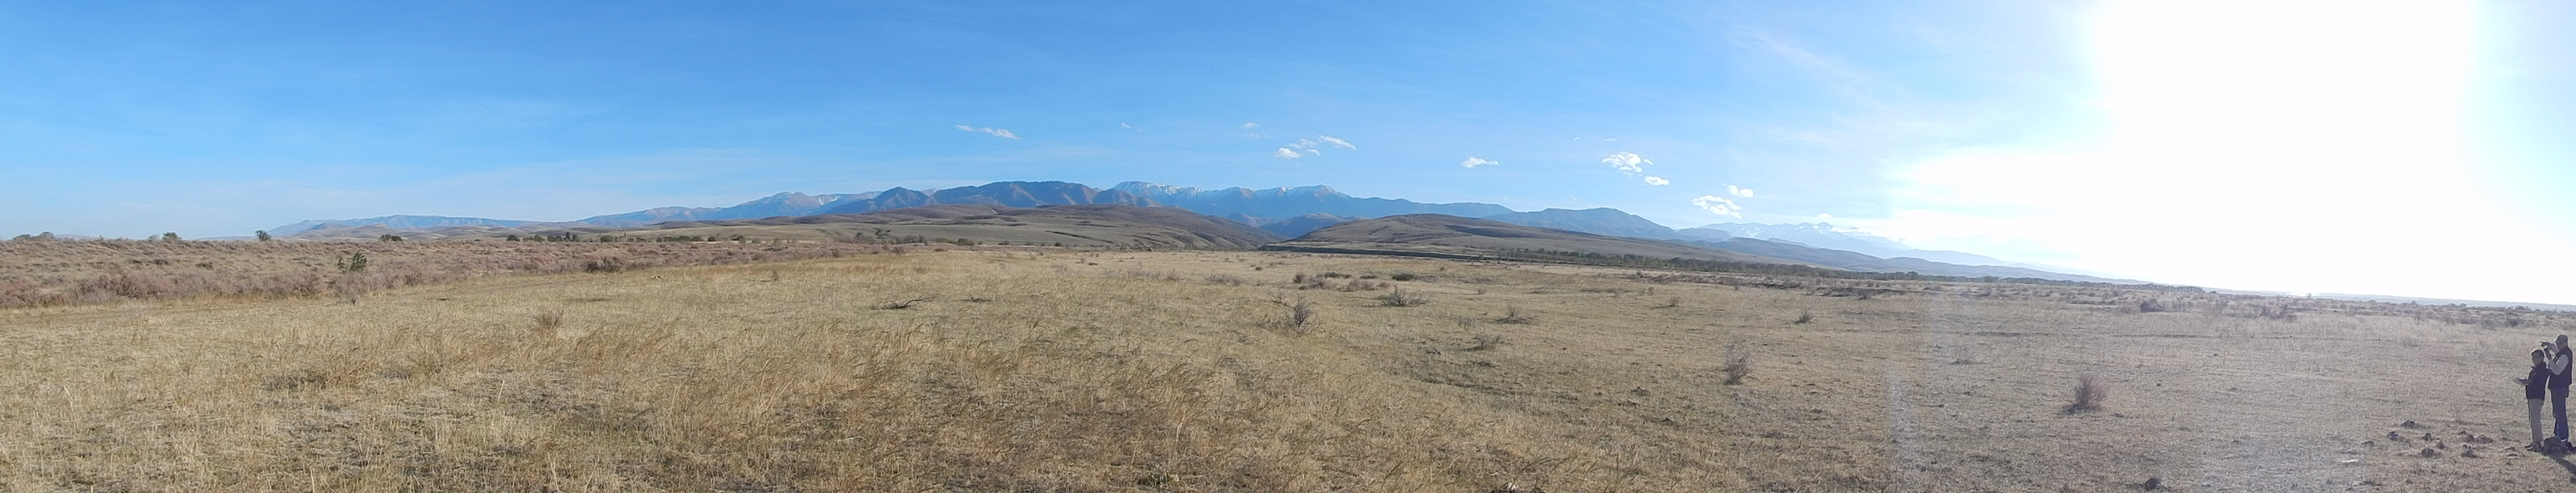
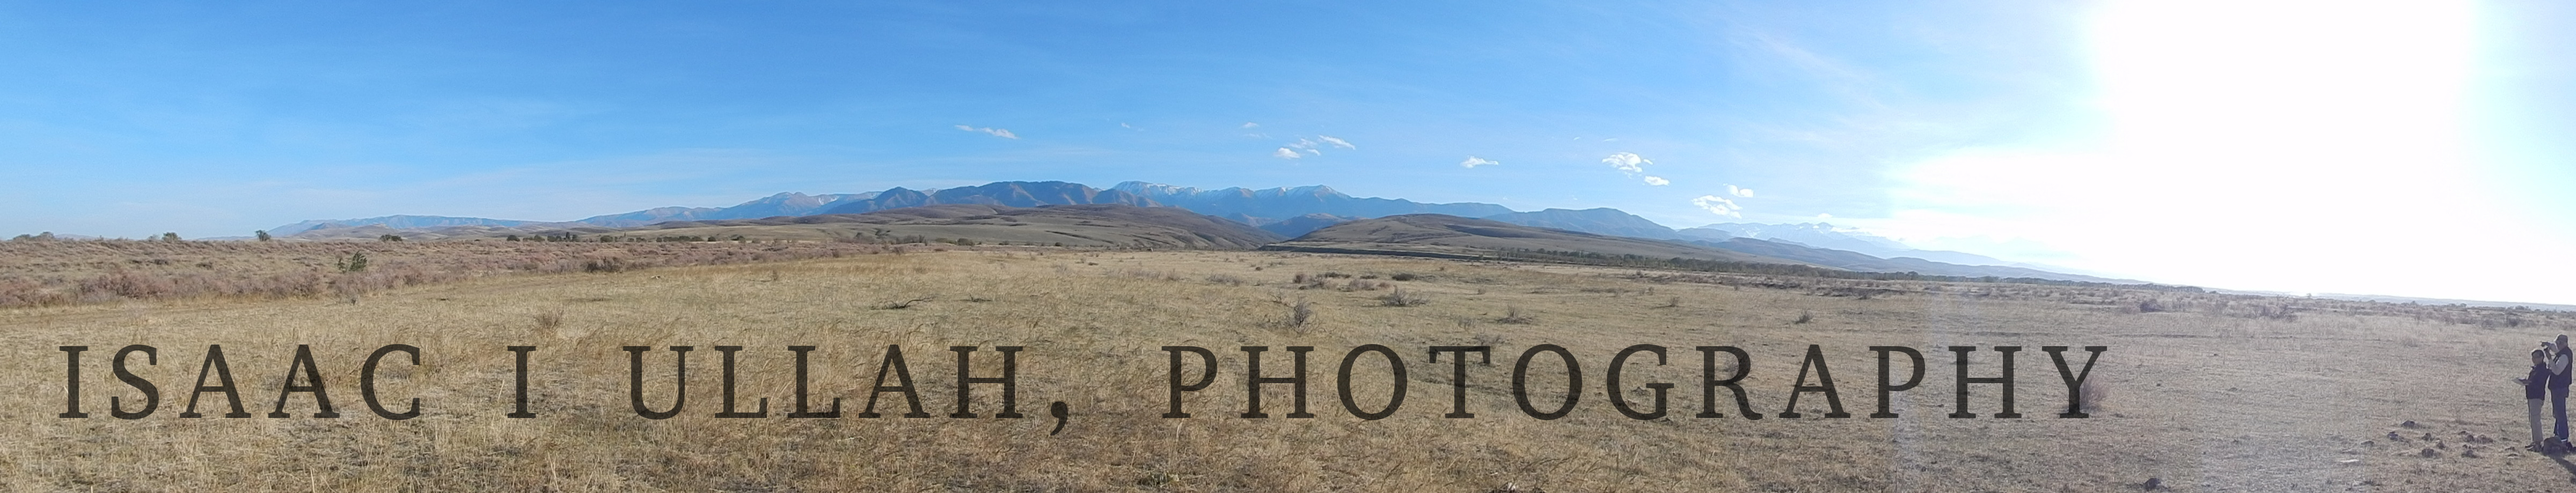
Adding photography portfolio.

Changed region(s): [[0.0, 0.7, 0.8438, 0.8522]]

diff --git a/photography/index.md b/photography/index.md
@@ -1,6 +1,6 @@
 ---
 layout: page
-title: Isaac I. Ullah, Photography.
+title:
 date: 2016-04-13
 modified: 
 excerpt: A portfolio of my travel and art photography. 
@@ -17,7 +17,7 @@ image:
 {:toc}
 </div>
 </section><!-- /#table-of-contents -->
----
+
 
 <br>
 
